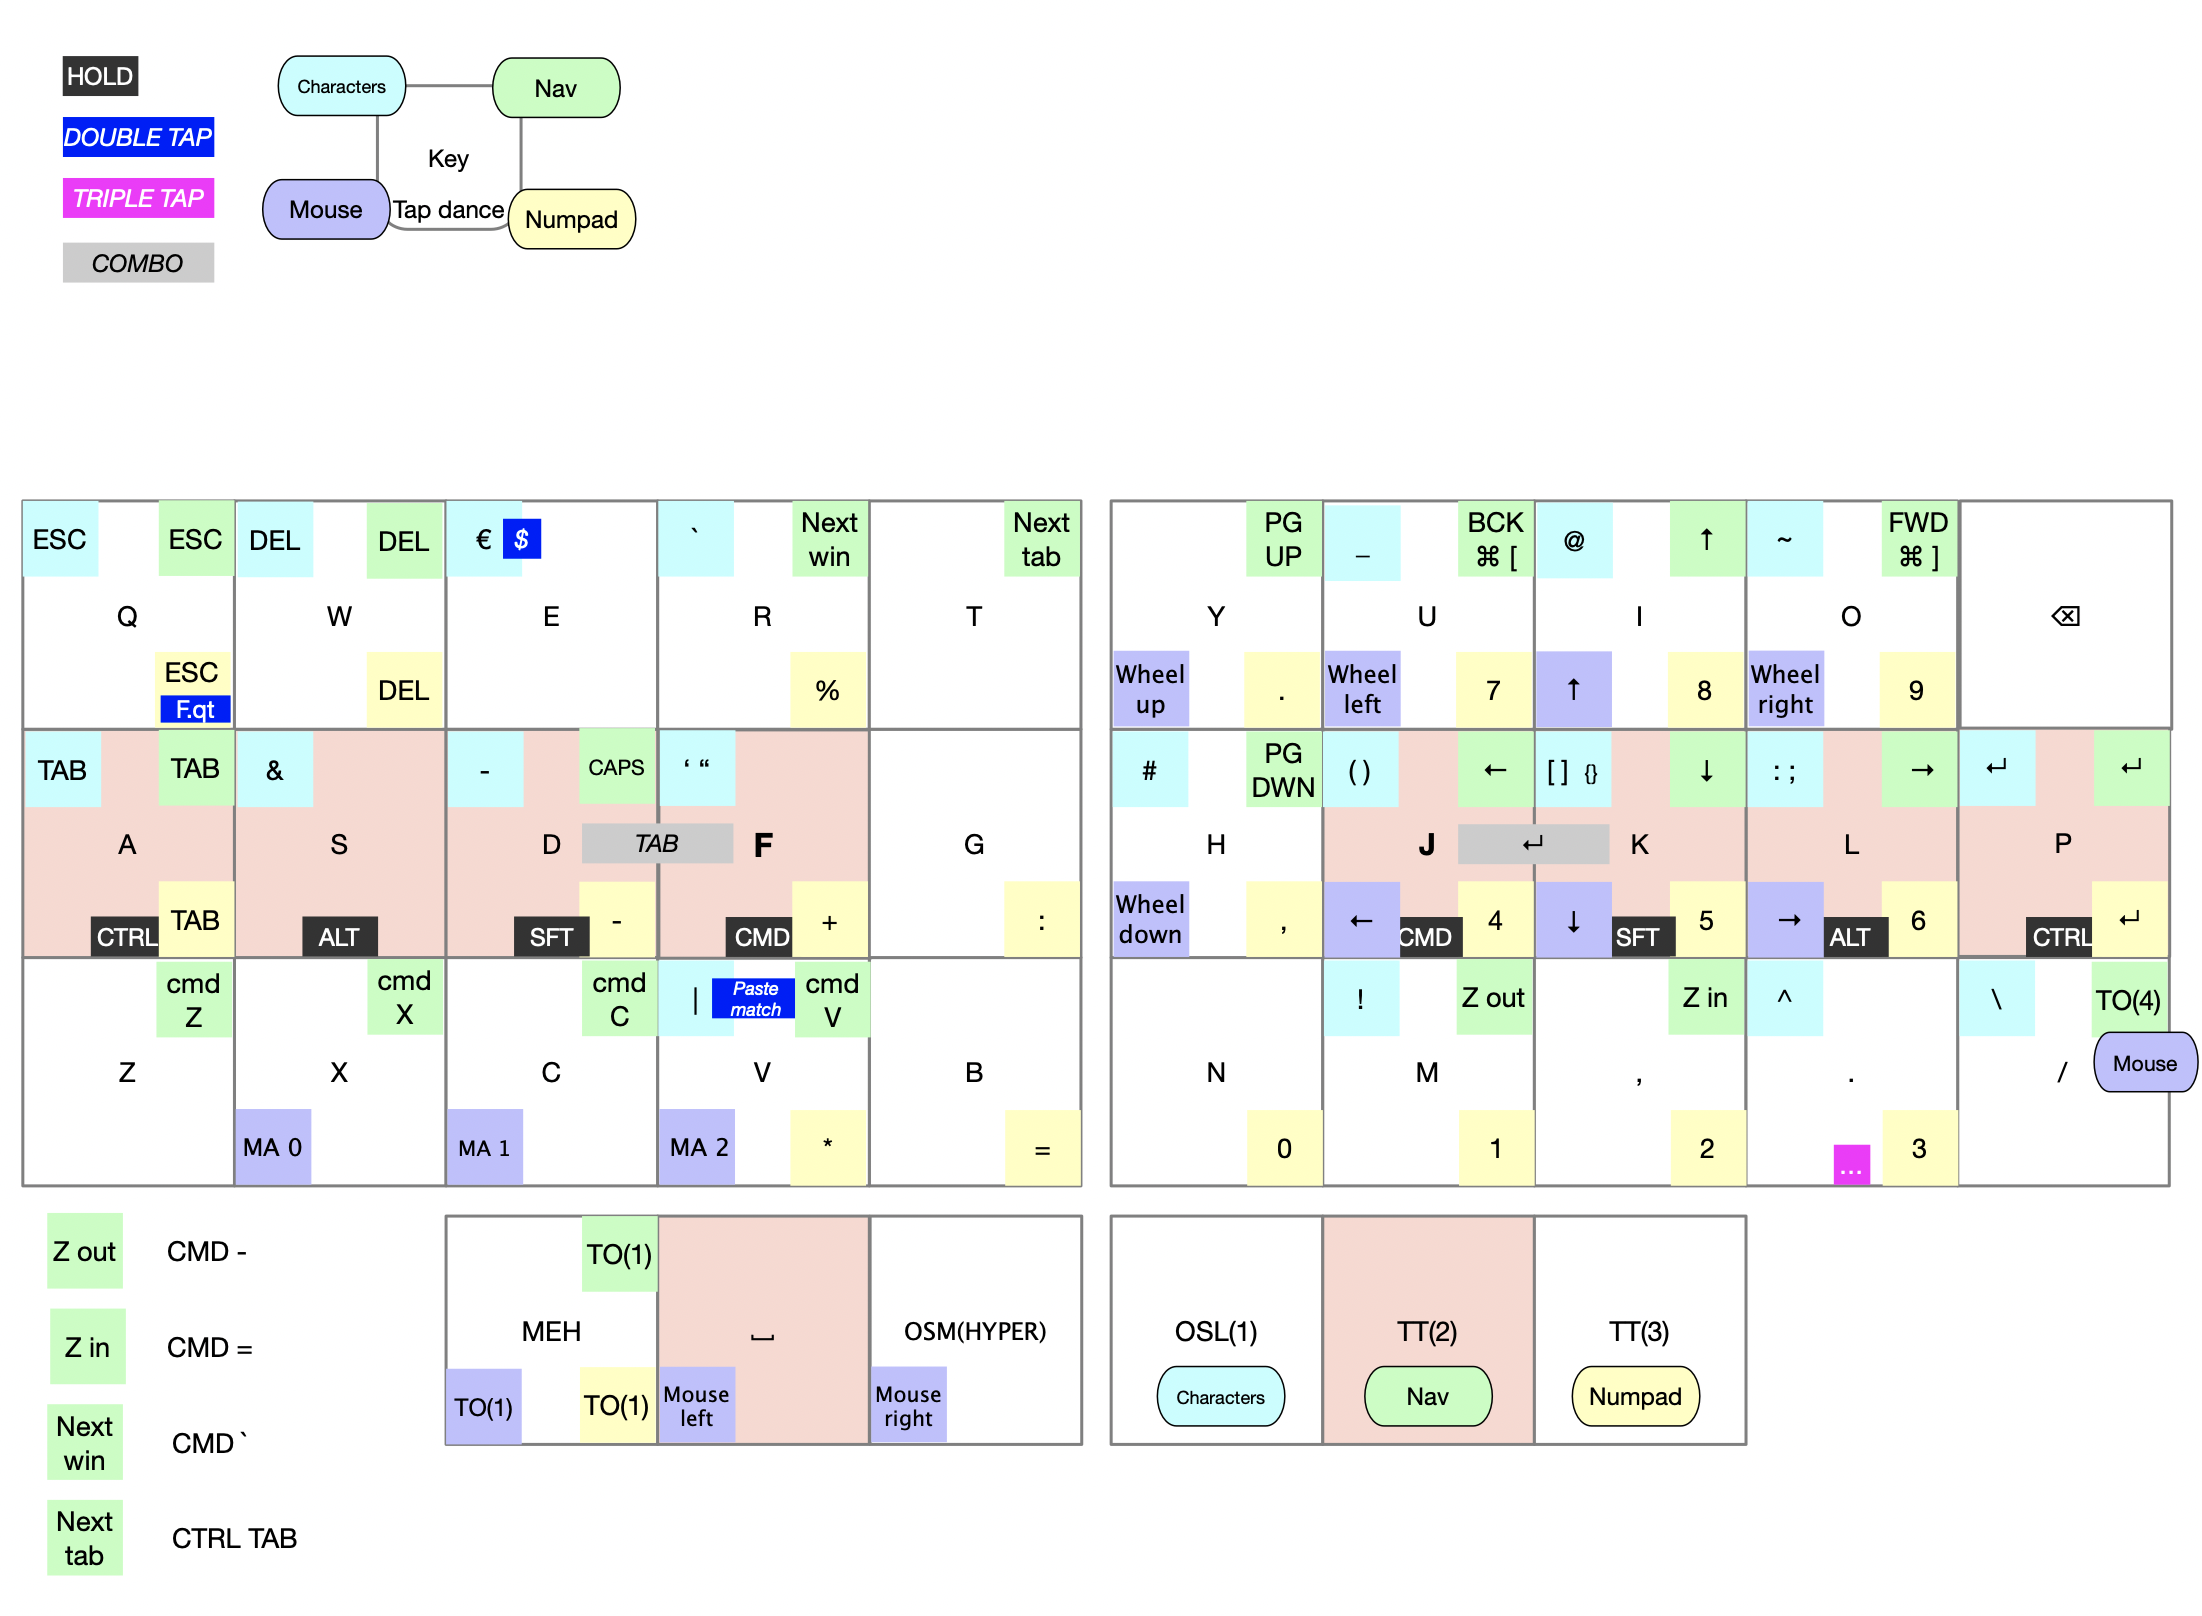
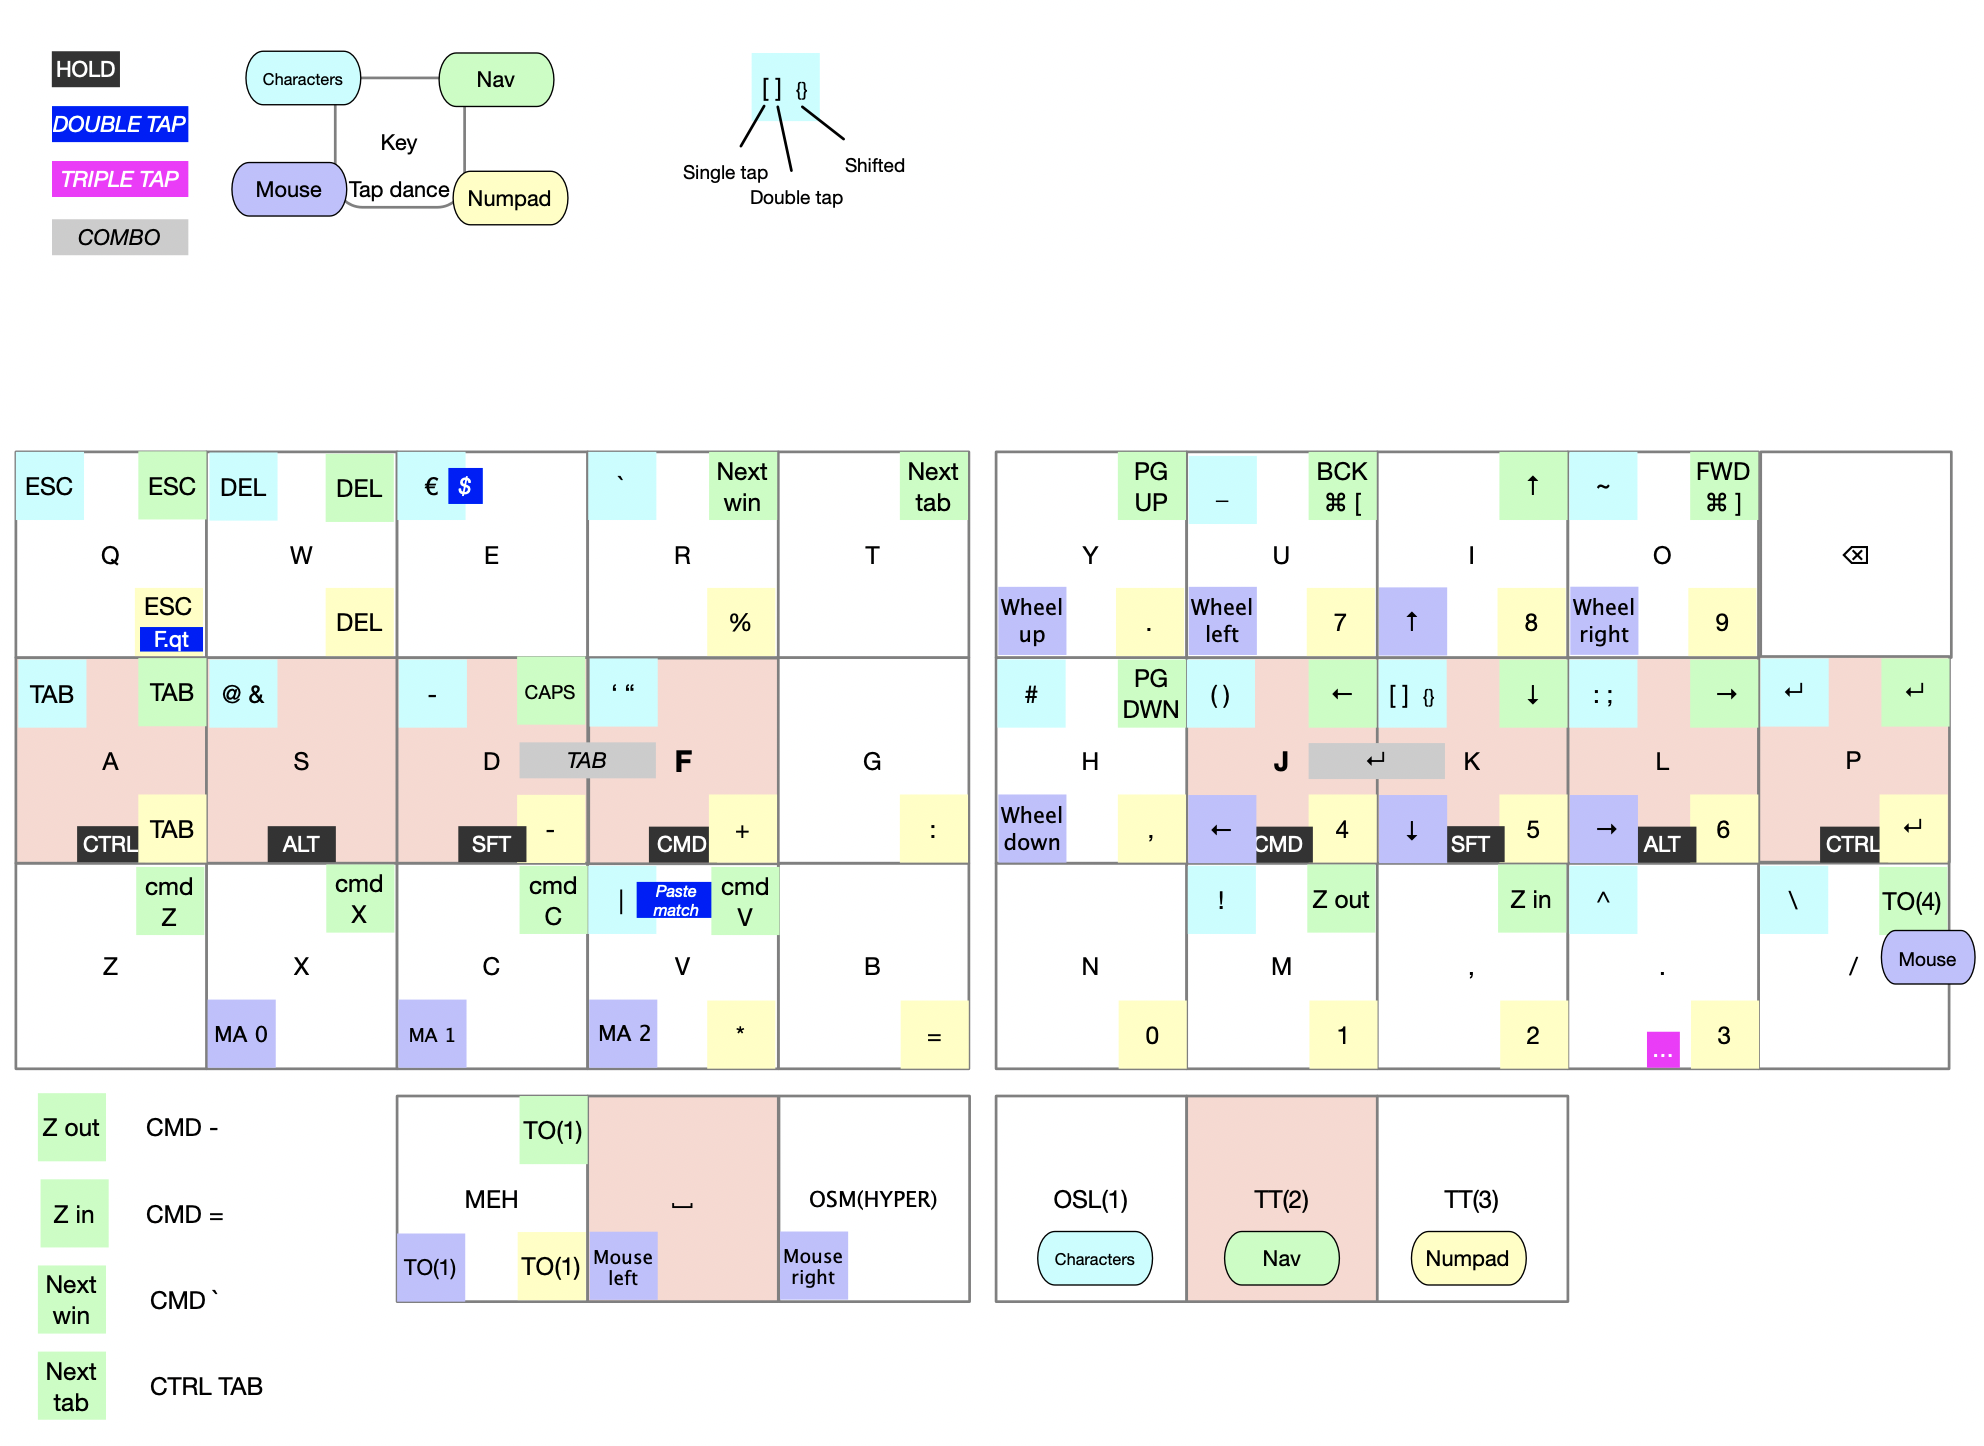
Moved @

diff --git a/threesixbase.c b/threesixbase.c
@@ -318,12 +318,15 @@ void cmdexl_reset(qk_tap_dance_state_t *state, void *user_data) {
 	}
 }
 
-// CTRL EXL
+// ALT @ &
 
 void altamp_finished(qk_tap_dance_state_t *state, void *user_data) {
 	td_state = cur_dance(state);
 	switch (td_state) {
 		case TD_SINGLE_TAP:
+			register_code16(LSFT(KC_2));
+			break;
+		case TD_DOUBLE_TAP:
 			register_code16(KC_AMPR);
 			break;
 		case TD_SINGLE_HOLD:
@@ -337,6 +340,9 @@ void altamp_finished(qk_tap_dance_state_t *state, void *user_data) {
 void altamp_reset(qk_tap_dance_state_t *state, void *user_data) {
 	switch (td_state) {
 		case TD_SINGLE_TAP:
+			unregister_code16(LSFT(KC_2));
+			break;
+		case TD_DOUBLE_TAP:
 			unregister_code16(KC_AMPR);
 			break;
 		case TD_SINGLE_HOLD:
@@ -542,7 +548,7 @@ qk_tap_dance_action_t tap_dance_actions[] = {
 //
 #define KR_1_1_6 KC_NO
 #define KR_1_1_7 KC_UNDS
-#define KR_1_1_8 LSFT(KC_2)
+#define KR_1_1_8 KC_NO
 #define KR_1_1_9 KC_TILD
 #define KR_1_1_10 KC_BSPC
 
